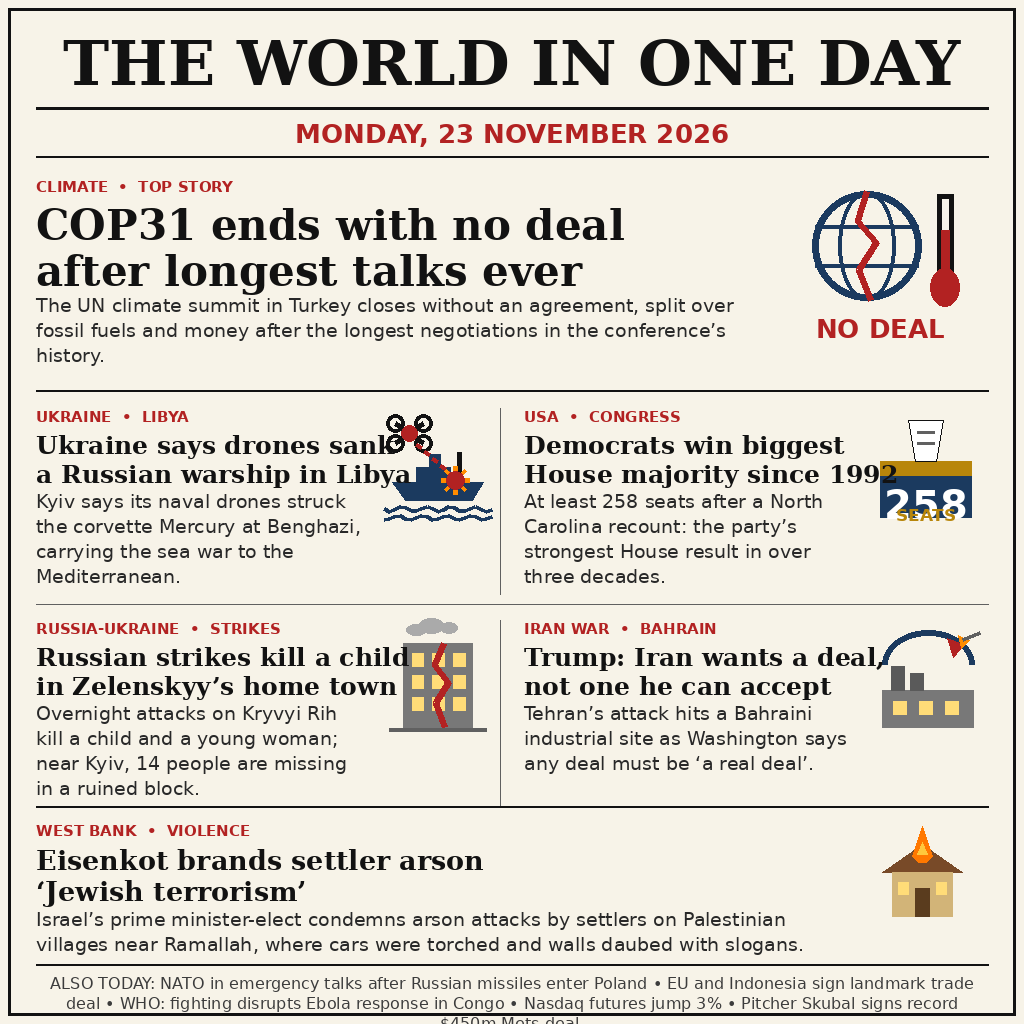
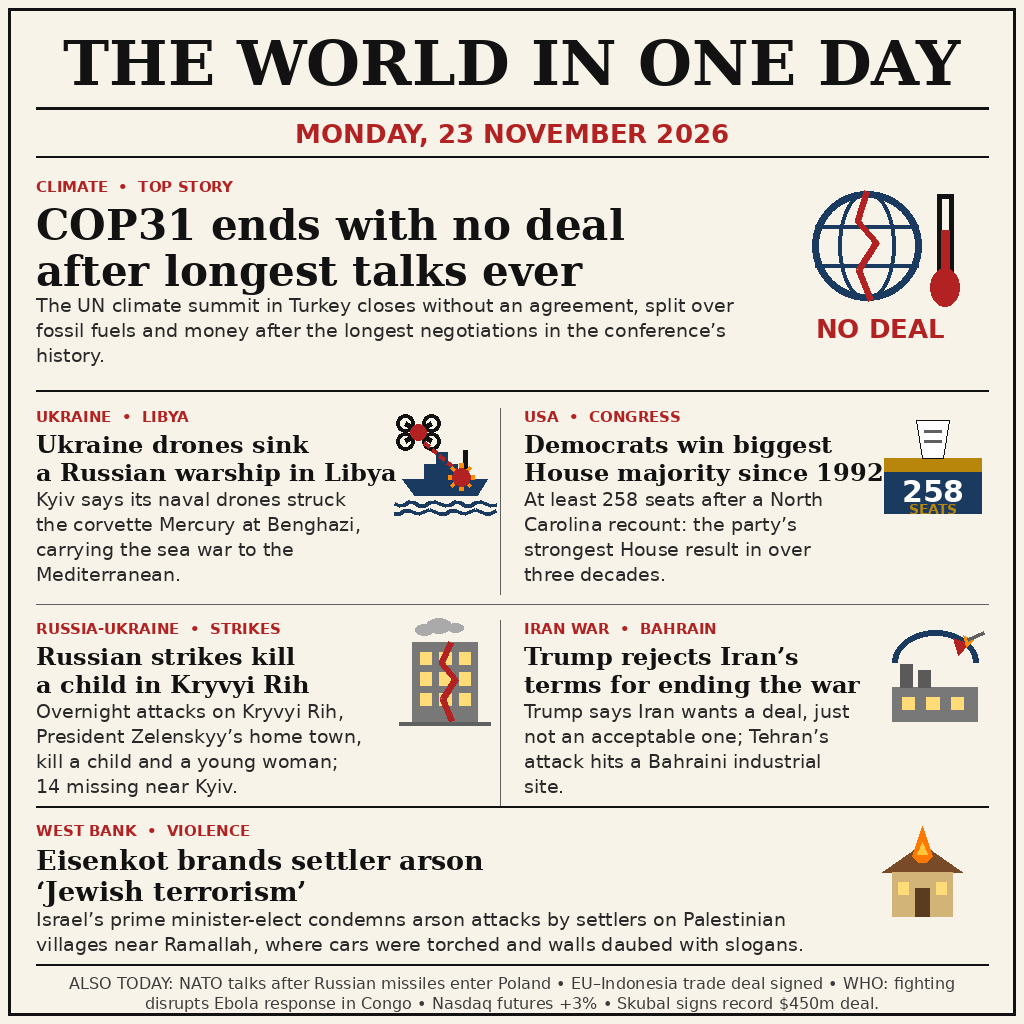
v2: fix ballot pictogram overflow, trim grid standfirsts, shorten footer

diff --git a/draw_news.py b/draw_news.py
@@ -145,9 +145,9 @@ def pic_ship_drone(d, x, y, s):
 
 def pic_ballot258(d, x, y, s):
     """Ballot box with the seat count on its face."""
-    d.rectangle([x + s * 0.08, y + s * 0.42, x + s * 0.92, y + s * 0.94],
+    d.rectangle([x + s * 0.02, y + s * 0.42, x + s * 0.98, y + s * 0.96],
                 fill=NAVY)
-    d.rectangle([x + s * 0.08, y + s * 0.42, x + s * 0.92, y + s * 0.55],
+    d.rectangle([x + s * 0.02, y + s * 0.42, x + s * 0.98, y + s * 0.54],
                 fill=GOLD)
     d.polygon([(x + s * 0.34, y + s * 0.04), (x + s * 0.66, y + s * 0.04),
                (x + s * 0.60, y + s * 0.42), (x + s * 0.40, y + s * 0.42)],
@@ -156,13 +156,13 @@ def pic_ballot258(d, x, y, s):
            fill=GREY, width=3)
     d.line([(x + s * 0.42, y + s * 0.25), (x + s * 0.58, y + s * 0.25)],
            fill=GREY, width=3)
-    tf = font(SANS_B, 40)
+    tf = font(SANS_B, 30)
     tw = d.textlength("258", font=tf)
-    d.text((x + (s - tw) / 2, y + s * 0.60), "258", font=tf,
+    d.text((x + (s - tw) / 2, y + s * 0.57), "258", font=tf,
            fill=(255, 255, 255))
-    sf = font(SANS_B, 17)
+    sf = font(SANS_B, 14)
     sw = d.textlength("SEATS", font=sf)
-    d.text((x + (s - sw) / 2, y + s * 0.82), "SEATS", font=sf, fill=GOLD)
+    d.text((x + (s - sw) / 2, y + s * 0.83), "SEATS", font=sf, fill=GOLD)
 
 
 def pic_building_hit(d, x, y, s):
@@ -262,7 +262,7 @@ def main():
     # ---- Grid: stories 2-5 ----
     cells = [
         (36, 408, pic_ship_drone, "UKRAINE  •  LIBYA",
-         ["Ukraine says drones sank", "a Russian warship in Libya"],
+         ["Ukraine drones sink", "a Russian warship in Libya"],
          "Kyiv says its naval drones struck the corvette Mercury at "
          "Benghazi, carrying the sea war to the Mediterranean."),
         (524, 408, pic_ballot258, "USA  •  CONGRESS",
@@ -270,17 +270,18 @@ def main():
          "At least 258 seats after a North Carolina recount: the "
          "party\u2019s strongest House result in over three decades."),
         (36, 620, pic_building_hit, "RUSSIA-UKRAINE  •  STRIKES",
-         ["Russian strikes kill a child", "in Zelenskyy\u2019s home town"],
-         "Overnight attacks on Kryvyi Rih kill a child and a young "
-         "woman; near Kyiv, 14 people are missing in a ruined block."),
+         ["Russian strikes kill", "a child in Kryvyi Rih"],
+         "Overnight attacks on Kryvyi Rih, President Zelenskyy\u2019s "
+         "home town, kill a child and a young woman; 14 missing "
+         "near Kyiv."),
         (524, 620, pic_missile_factory, "IRAN WAR  •  BAHRAIN",
-         ["Trump: Iran wants a deal,", "not one he can accept"],
-         "Tehran\u2019s attack hits a Bahraini industrial site as "
-         "Washington says any deal must be \u2018a real deal\u2019."),
+         ["Trump rejects Iran\u2019s", "terms for ending the war"],
+         "Trump says Iran wants a deal, just not an acceptable one; "
+         "Tehran\u2019s attack hits a Bahraini industrial site."),
     ]
     for (cx, cy, pic, kicker, heads, stand) in cells:
-        pic(d, cx + 348, cy + 8, 108)
-        headline_block(d, cx, cy, 330, kicker, heads, stand, head_size=25)
+        pic(d, cx + 358, cy + 8, 102)
+        headline_block(d, cx, cy, 330, kicker, heads, stand, head_size=24)
         if cx == 36:
             d.line([(500, cy), (500, cy + 186)], fill=GREY, width=1)
     rule(d, 604, width=1, fill=GREY)
@@ -300,11 +301,10 @@ def main():
 
     # ---- Footer: also today ----
     fnt = font(SANS, 16)
-    footer = ("ALSO TODAY:  NATO in emergency talks after Russian "
-              "missiles enter Poland  •  EU and Indonesia sign landmark "
-              "trade deal  •  WHO: fighting disrupts Ebola response in "
-              "Congo  •  Nasdaq futures jump 3%  •  Pitcher Skubal signs "
-              "record $450m Mets deal.")
+    footer = ("ALSO TODAY:  NATO talks after Russian missiles enter "
+              "Poland  •  EU\u2013Indonesia trade deal signed  •  WHO: "
+              "fighting disrupts Ebola response in Congo  •  Nasdaq "
+              "futures +3%  •  Skubal signs record $450m deal.")
     y = 974
     for line in wrap(d, footer, fnt, 952):
         draw_centered(d, y, line, fnt, fill=(60, 60, 60))
